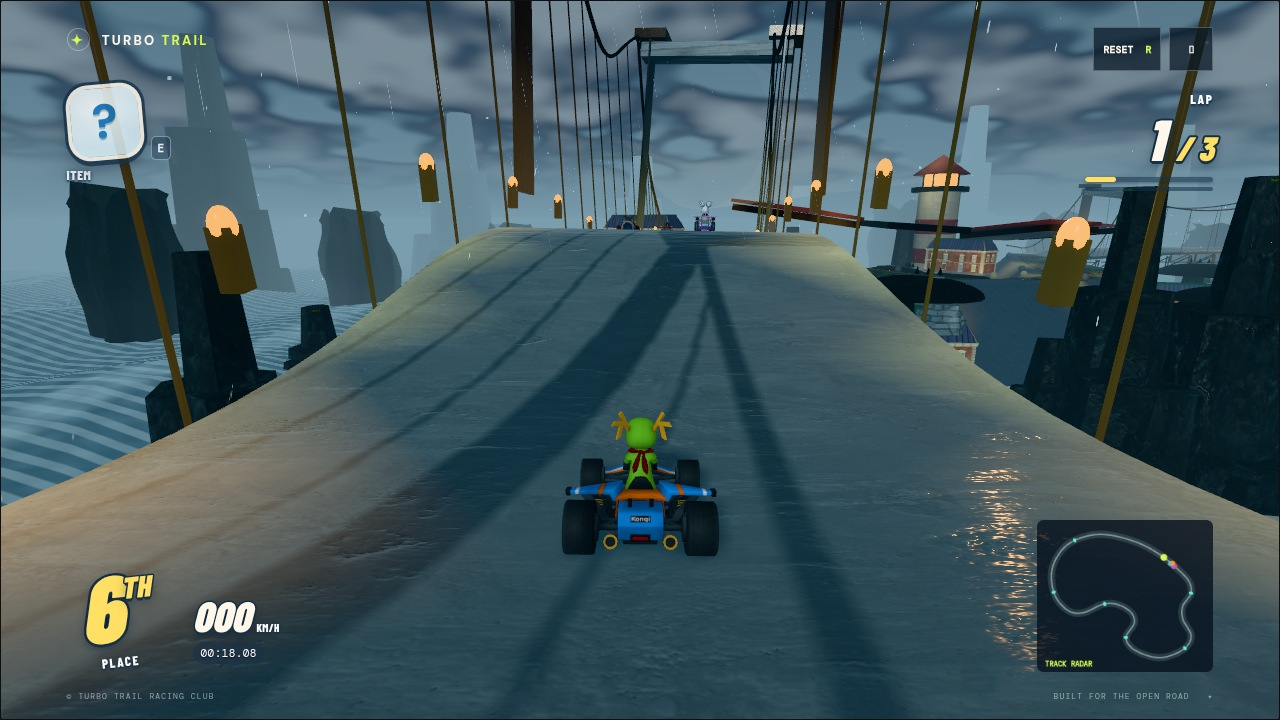
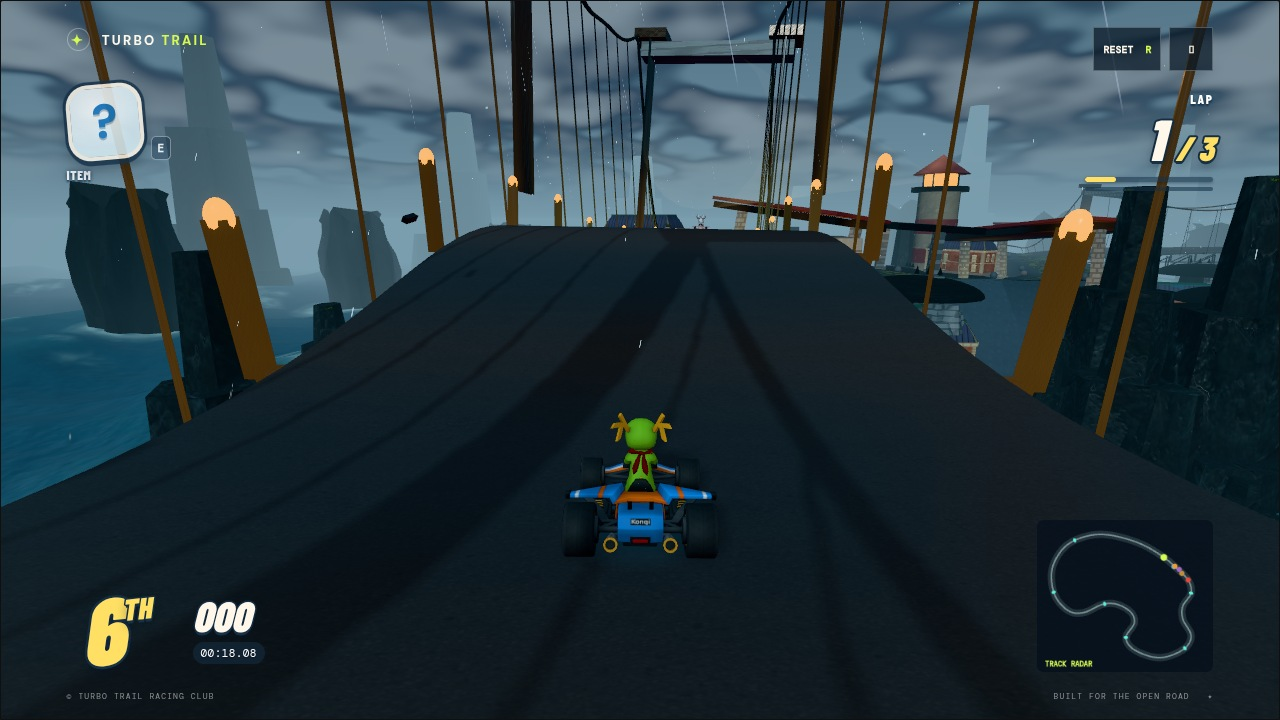
Refresh course selection screenshots

diff --git a/src/ui/selection-menu.js b/src/ui/selection-menu.js
@@ -25,8 +25,7 @@ export function createSelectionMenu({ documentRef, locationRef, course, racer, m
       image.onerror = null;
       image.src = `./assets/previews/${entry.id}.svg`;
     };
-    const gallery = { "sunstone-ruins": "sunstone-engine-polish", "paper-revel": "paper-crossing" };
-    image.src = `./docs/screenshots/${gallery[entry.id] || entry.id}.jpg`;
+    image.src = `./docs/screenshots/${entry.id}.jpg`;
   }
   function chooseCourse(entry) {
     selected.course = entry.id;
